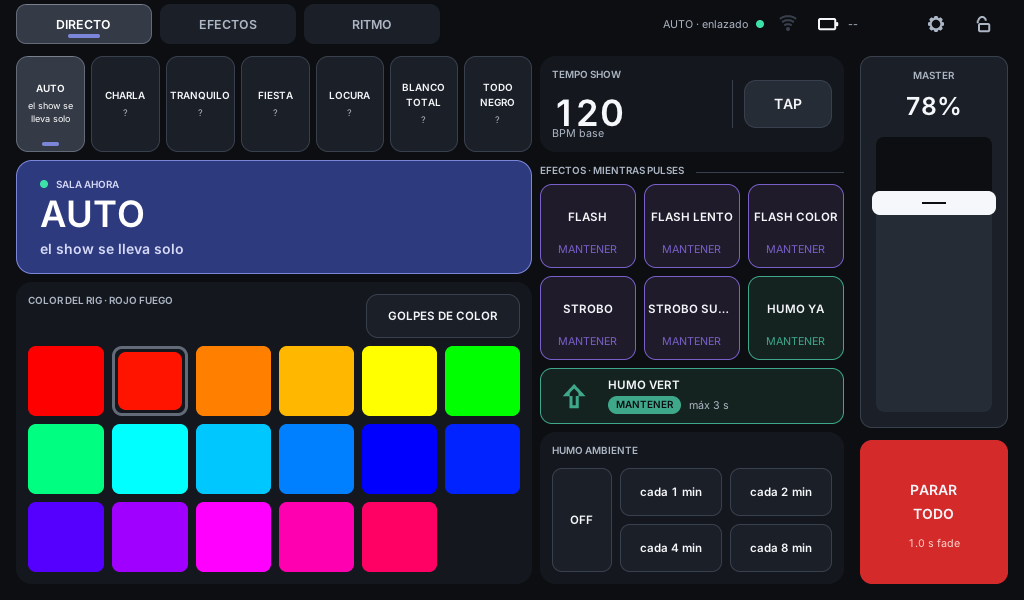
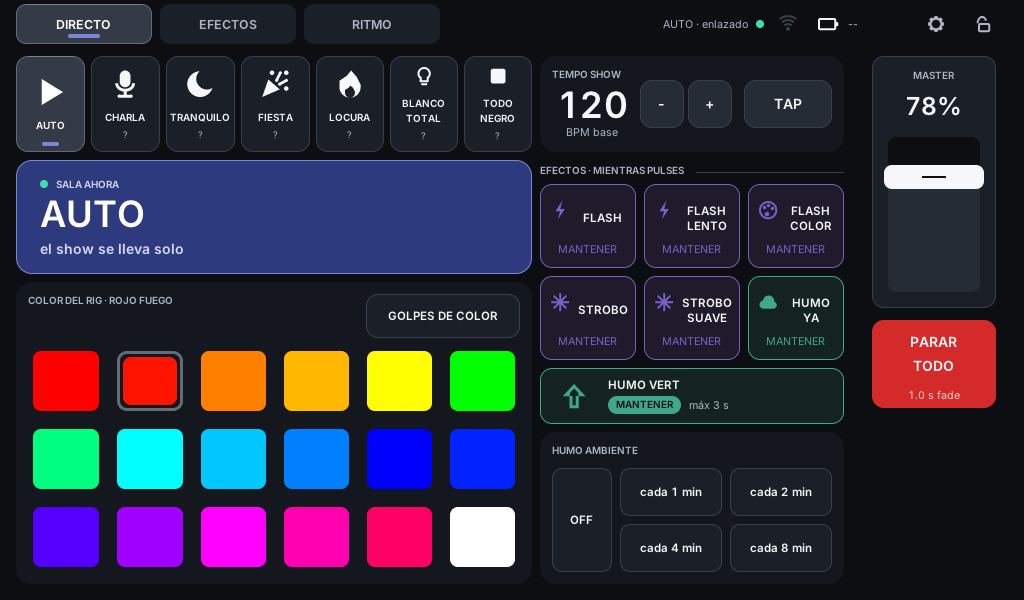
Refine SHOW tablet controls after live feedback
Restore white to the rig bank with a distinct touch target and bounded colour hit. Bring back Directo BPM steps and all state and effect icons while reducing the master, panic and colour controls. The final screen now keeps complete labels and centred tempo text.

Verified with 46 host tests under ASan and UBSan, the 19,764,864-probe geometry audit, Clang static analysis, the rendered screen and an ARM GCC build.

diff --git a/tests/dmx-desk/desk_geometry_test.c b/tests/dmx-desk/desk_geometry_test.c
@@ -1,4 +1,4 @@
-// SOURCES: ../tests/dmx-desk/audit/pager_selfcheck.c desk_inert_mask.c desk_region_mark.c desk_setup_inert_mask.c desk_speed_inert_mask.c desk_model.c desk_master_level_at.c desk_master_track.c desk_pager_caption.c desk_pager_bank_caption.c ../tests/dmx-desk/audit/icon.c ../tests/dmx-desk/audit/icon_ink.c icon_glyph.c ../tests/dmx-desk/audit/blend.c desk_caption.c desk_view.c desk_view_pager.c desk_pager_label.c desk_layout_resolve.c desk_show_layout.c showmap.c showmap_release_to_parse.c showmap_release_to_prune.c showmap_validate.c vcjson.c canvas.c canvas_blend.c font.c desk_fonts.c desk_input.c desk_pager_hit.c desk_build_holds.c desk_hold.c desk_speed.c desk_tap.c speed_factor.c desk_setup.c desk_brightness_track.c desk_brightness_level_at.c desk_setup_row_hit.c desk_setup_page_hit.c keyboard.c wifi_scan.c desk_conf.c ../tests/dmx-desk/audit/active.c ../tests/dmx-desk/audit/note.c ../tests/dmx-desk/audit/record.c ../tests/dmx-desk/audit/round.c ../tests/dmx-desk/audit/blend_round.c ../tests/dmx-desk/audit/fill.c ../tests/dmx-desk/audit/text.c ../tests/dmx-desk/audit/glyph_text.c ../tests/dmx-desk/audit/paint.c ../tests/dmx-desk/audit/speed_paint.c ../tests/dmx-desk/audit/setup_paint.c ../tests/dmx-desk/audit/keyboard_paint.c ../tests/dmx-desk/audit/add.c ../tests/dmx-desk/audit/inventory.c ../tests/dmx-desk/audit/setup_inventory.c ../tests/dmx-desk/audit/reach.c ../tests/dmx-desk/audit/geometry.c ../tests/dmx-desk/audit/scan.c ../tests/dmx-desk/audit/view.c ../tests/dmx-desk/audit/backing.c ../tests/dmx-desk/audit/ranges.c ../tests/dmx-desk/audit/selfcheck.c desk_tab_page.c desk_view_family.c desk_family_icon.c ../tests/dmx-desk/audit/paint_keyline.c ../tests/dmx-desk/audit/paint_text_centred.c ../tests/dmx-desk/audit/paint_tabs.c ../tests/dmx-desk/audit/paint_families.c desk_tab_title.c desk_show_slot.c desk_show_place.c desk_show_panel.c desk_show_section.c desk_show_accent_tile.c desk_show_live_page.c desk_show_is_rig.c desk_text_upper.c desk_colour_dim.c desk_panel_holds.c desk_panel_running.c desk_rig_name.c ../tests/dmx-desk/audit/paint_room.c ../tests/dmx-desk/audit/paint_text_at.c desk_speed_target_rect.c desk_pick_numbered.c desk_caption_number.c desk_trajectory_of.c ../tests/dmx-desk/audit/paint_number.c ../tests/dmx-desk/audit/paint_trajectory.c ../tests/dmx-desk/audit/paint_tile_base.c ../tests/dmx-desk/audit/icon_paint_large.c ../tests/dmx-desk/audit/icon_large_ink.c desk_show_holds.c desk_show_haze.c desk_show_rig.c desk_damage_running.c ../tests/dmx-desk/audit/paint_hold.c ../tests/dmx-desk/audit/paint_selected.c ../tests/dmx-desk/audit/paint_selected_mark.c ../tests/dmx-desk/audit/icon_paint_mid.c ../tests/dmx-desk/audit/icon_mid_ink.c ../tests/dmx-desk/audit/paint_room_picture.c ../tests/dmx-desk/audit/icon_paint_hero.c ../tests/dmx-desk/audit/icon_hero_ink.c
+// SOURCES: ../tests/dmx-desk/audit/pager_selfcheck.c desk_inert_mask.c desk_region_mark.c desk_setup_inert_mask.c desk_speed_inert_mask.c desk_model.c desk_master_level_at.c desk_master_track.c desk_pager_caption.c desk_pager_bank_caption.c ../tests/dmx-desk/audit/icon.c ../tests/dmx-desk/audit/icon_ink.c icon_glyph.c ../tests/dmx-desk/audit/blend.c desk_caption.c desk_view.c desk_view_pager.c desk_pager_label.c desk_layout_resolve.c desk_show_layout.c showmap.c showmap_release_to_parse.c showmap_release_to_prune.c showmap_validate.c vcjson.c canvas.c canvas_blend.c font.c desk_fonts.c desk_input.c desk_pager_hit.c desk_build_holds.c desk_hold.c desk_speed.c desk_tap.c speed_factor.c desk_setup.c desk_brightness_track.c desk_brightness_level_at.c desk_setup_row_hit.c desk_setup_page_hit.c keyboard.c wifi_scan.c desk_conf.c ../tests/dmx-desk/audit/active.c ../tests/dmx-desk/audit/note.c ../tests/dmx-desk/audit/record.c ../tests/dmx-desk/audit/round.c ../tests/dmx-desk/audit/blend_round.c ../tests/dmx-desk/audit/fill.c ../tests/dmx-desk/audit/text.c ../tests/dmx-desk/audit/glyph_text.c ../tests/dmx-desk/audit/paint.c ../tests/dmx-desk/audit/speed_paint.c ../tests/dmx-desk/audit/setup_paint.c ../tests/dmx-desk/audit/keyboard_paint.c ../tests/dmx-desk/audit/add.c ../tests/dmx-desk/audit/inventory.c ../tests/dmx-desk/audit/setup_inventory.c ../tests/dmx-desk/audit/reach.c ../tests/dmx-desk/audit/geometry.c ../tests/dmx-desk/audit/scan.c ../tests/dmx-desk/audit/view.c ../tests/dmx-desk/audit/backing.c ../tests/dmx-desk/audit/ranges.c ../tests/dmx-desk/audit/selfcheck.c desk_tab_page.c desk_view_family.c desk_family_icon.c ../tests/dmx-desk/audit/paint_keyline.c ../tests/dmx-desk/audit/paint_text_centred.c ../tests/dmx-desk/audit/paint_tabs.c ../tests/dmx-desk/audit/paint_families.c desk_tab_title.c desk_show_slot.c desk_show_place.c desk_show_panel.c desk_show_section.c desk_show_accent_tile.c desk_show_live_page.c desk_show_is_rig.c desk_text_upper.c desk_colour_dim.c desk_panel_holds.c desk_panel_running.c desk_rig_name.c ../tests/dmx-desk/audit/paint_room.c ../tests/dmx-desk/audit/paint_text_at.c desk_speed_target_rect.c desk_speed_tempo_step_rect.c desk_pick_numbered.c desk_caption_number.c desk_trajectory_of.c ../tests/dmx-desk/audit/paint_number.c ../tests/dmx-desk/audit/paint_trajectory.c ../tests/dmx-desk/audit/paint_tile_base.c ../tests/dmx-desk/audit/icon_paint_large.c ../tests/dmx-desk/audit/icon_large_ink.c desk_show_holds.c desk_show_haze.c desk_show_rig.c desk_damage_running.c ../tests/dmx-desk/audit/paint_hold.c ../tests/dmx-desk/audit/paint_selected.c ../tests/dmx-desk/audit/paint_selected_mark.c ../tests/dmx-desk/audit/icon_paint_mid.c ../tests/dmx-desk/audit/icon_mid_ink.c ../tests/dmx-desk/audit/paint_room_picture.c ../tests/dmx-desk/audit/icon_paint_hero.c ../tests/dmx-desk/audit/icon_hero_ink.c
 // OPTIMIZE: 2
 // A full-pixel audit of the real Vibra show. Unresolved findings fail the gate.
 #include <assert.h>

diff --git a/src/desk_paint.c b/src/desk_paint.c
@@ -295,10 +295,9 @@ static void paint_swatch(struct canvas *c, const struct desk_control *ctl,
                 DESK_MUTED);
 }
 
-// A state under SALA AHORA: its 36 px mark over its name, and under the name
-// the running state's detail, or why a tile is dead or unknown; an idle state
-// carries no second line, since the hero already says what runs. The mark
-// gives way when the words need the height.
+// A state under SALA AHORA: its mark over its name. The hero carries the
+// running detail; the tile uses its second line only for a disabled or unknown
+// state. Narrow two-line names get a smaller mark instead of losing it.
 static void paint_state(struct canvas *c, const struct desk_control *ctl,
                         const struct desk_placement *p, const struct desk_fonts *fonts,
                         enum desk_link link) {
@@ -312,18 +311,23 @@ static void paint_state(struct canvas *c, const struct desk_control *ctl,
     if (!ctl->enabled || link != DESK_LINK_READY)
         ink = DESK_MUTED;
     int unknown = link == DESK_LINK_READY && ctl->state == DESK_UNKNOWN;
-    const char *under = on ? ctl->detail : !ctl->enabled || unknown ? state_line(ctl, link) : "";
+    const char *under = !ctl->enabled || unknown ? state_line(ctl, link) : "";
     struct desk_caption_lines name, more;
     desk_caption_fit(fonts->section, r.w - 8, ctl->label, &name);
     int lines = under[0] ? desk_caption_fit(fonts->tiny, r.w - 8, under, &more) : 0;
     int name_pitch = text_h(fonts->section) + 2, more_pitch = text_h(fonts->tiny) + 1;
     int words = name.lines * name_pitch + (lines ? 4 + lines * more_pitch : 0);
     int mark = icon_glyph(ctl->icon);
-    int marked = mark >= 0 && words + ICON_MID_SIZE + MARK_GAP <= r.h - 24;
-    int y = r.y + (r.h - words - (marked ? ICON_MID_SIZE + MARK_GAP : 0)) / 2;
-    if (marked) {
-        icon_paint_mid(c, (enum icon_id)mark, r.x + (r.w - ICON_MID_SIZE) / 2, y, ink);
-        y += ICON_MID_SIZE + MARK_GAP;
+    int margin = r.w < 80 ? 12 : 24;
+    int mark_size = mark >= 0 && words + ICON_MID_SIZE + MARK_GAP <= r.h - margin ? ICON_MID_SIZE
+                  : mark >= 0 && words + ICON_SIZE + MARK_GAP <= r.h - margin ? ICON_SIZE : 0;
+    int y = r.y + (r.h - words - (mark_size ? mark_size + MARK_GAP : 0)) / 2;
+    if (mark_size) {
+        if (mark_size == ICON_MID_SIZE)
+            icon_paint_mid(c, (enum icon_id)mark, r.x + (r.w - mark_size) / 2, y, ink);
+        else
+            icon_paint(c, (enum icon_id)mark, r.x + (r.w - mark_size) / 2, y, ink);
+        y += mark_size + MARK_GAP;
     }
     for (int i = 0; i < name.lines; i++)
         centred(c, fonts->section, r.x + 4, y + i * name_pitch, r.w - 8, name_pitch, name.line[i], ink);
@@ -605,7 +609,8 @@ static void paint_headings(struct canvas *c, const struct desk_model *model,
             snprintf(text, sizeof text, "%s", named);
         }
         if (h->h <= 0) {
-            desk_paint_section(c, fonts, h->x, h->y, h->w, text);
+            int title_w = h->kind == DESK_PANEL_NAMES_RUNNING ? h->w - 166 : h->w;
+            desk_paint_section(c, fonts, h->x, h->y, title_w, text);
             continue;
         }
         // The hero paints its own panel and heading.

diff --git a/tests/dmx-desk/desk_render_test.c b/tests/dmx-desk/desk_render_test.c
@@ -1,4 +1,4 @@
-// SOURCES: desk_speed.c desk_speed_paint.c desk_tap.c speed_factor.c desk_model.c desk_master_level_at.c desk_paint.c desk_master_track.c desk_pager_caption.c desk_pager_bank_caption.c icon.c icon_glyph.c desk_caption.c desk_view.c desk_view_pager.c desk_pager_label.c desk_layout_resolve.c desk_show_layout.c showmap.c showmap_release_to_parse.c showmap_release_to_prune.c showmap_validate.c vcjson.c canvas.c canvas_blend.c font.c desk_fonts.c desk_paint_keyline.c desk_paint_text_centred.c desk_paint_tabs.c desk_paint_families.c desk_tab_page.c desk_tab_title.c desk_view_family.c desk_family_icon.c desk_show_slot.c desk_show_place.c desk_show_panel.c desk_show_section.c desk_show_accent_tile.c desk_show_live_page.c desk_show_is_rig.c desk_text_upper.c desk_colour_dim.c desk_panel_holds.c desk_panel_running.c desk_rig_name.c desk_paint_room.c desk_paint_text_at.c desk_speed_target_rect.c desk_pick_numbered.c desk_caption_number.c desk_trajectory_of.c desk_paint_number.c desk_paint_trajectory.c desk_paint_tile_base.c icon_paint_large.c desk_show_holds.c desk_show_haze.c desk_show_rig.c desk_damage_running.c desk_paint_hold.c desk_paint_selected.c desk_paint_selected_mark.c icon_paint_mid.c desk_paint_room_picture.c icon_paint_hero.c
+// SOURCES: desk_speed.c desk_speed_paint.c desk_speed_tempo_step_rect.c desk_tap.c speed_factor.c desk_model.c desk_master_level_at.c desk_paint.c desk_master_track.c desk_pager_caption.c desk_pager_bank_caption.c icon.c icon_glyph.c desk_caption.c desk_view.c desk_view_pager.c desk_pager_label.c desk_layout_resolve.c desk_show_layout.c showmap.c showmap_release_to_parse.c showmap_release_to_prune.c showmap_validate.c vcjson.c canvas.c canvas_blend.c font.c desk_fonts.c desk_paint_keyline.c desk_paint_text_centred.c desk_paint_tabs.c desk_paint_families.c desk_tab_page.c desk_tab_title.c desk_view_family.c desk_family_icon.c desk_show_slot.c desk_show_place.c desk_show_panel.c desk_show_section.c desk_show_accent_tile.c desk_show_live_page.c desk_show_is_rig.c desk_text_upper.c desk_colour_dim.c desk_panel_holds.c desk_panel_running.c desk_rig_name.c desk_paint_room.c desk_paint_text_at.c desk_speed_target_rect.c desk_pick_numbered.c desk_caption_number.c desk_trajectory_of.c desk_paint_number.c desk_paint_trajectory.c desk_paint_tile_base.c icon_paint_large.c desk_show_holds.c desk_show_haze.c desk_show_rig.c desk_damage_running.c desk_paint_hold.c desk_paint_selected.c desk_paint_selected_mark.c icon_paint_mid.c desk_paint_room_picture.c icon_paint_hero.c
 // The desk, built from the generated Vibra map against the real console
 // document, pressed once, and painted. Writes $TEST_OUT/desk.ppm so the screen can be
 // looked at on a laptop before it reaches the tablet, and one render per tab:

diff --git a/src/showmap_validate.c b/src/showmap_validate.c
@@ -275,5 +275,38 @@ int showmap_build(struct desk_model *model, const struct show_map *map,
         model->control[DESK_COLOR_MODE_INDEX(map)].state = DESK_OFF;
         enabled += off.enabled + tempo.enabled + color_mode.enabled;
     }
+    // A separate control gives the white swatch its own touch target while
+    // keeping BLANCO TOTAL in the state row. In one-shot mode it uses the
+    // validated, bounded white burst just like the other colour swatches.
+    struct desk_control white;
+    memset(&white, 0, sizeof white);
+    white.kind = DESK_CUE;
+    white.widget_id = -1;
+    white.function_id = -1;
+    white.shot_widget_id = -1;
+    white.page = -1;
+    int white_source = -1;
+    for (int i = 0; i < map->count; i++)
+        if (strcmp(map->control[i].key, "blanco-total") == 0)
+            white_source = i;
+    if (white_source >= 0) {
+        white = model->control[white_source];
+        snprintf(white.label, sizeof white.label, "BLANCO");
+        for (int i = 0; i < map->count; i++)
+            if (strcmp(map->control[i].key, "blanco") == 0 &&
+                model->control[i].kind == DESK_BURST && model->control[i].enabled)
+                white.shot_widget_id = model->control[i].widget_id;
+        if (white.shot_widget_id < 0 && model->control[DESK_COLOR_MODE_INDEX(map)].enabled) {
+            disable(&model->control[DESK_COLOR_MODE_INDEX(map)], "colour hits unavailable");
+            enabled--;
+        }
+    } else
+        disable(&white, "not in this show");
+    int white_index = desk_add(model, &white);
+    if (white_index >= 0) {
+        model->control[white_index].state = white_source >= 0 ?
+            model->control[white_source].state : DESK_UNKNOWN;
+        enabled += white.enabled;
+    }
     return enabled;
 }

diff --git a/tests/dmx-desk/desk_layout_test.c b/tests/dmx-desk/desk_layout_test.c
@@ -147,21 +147,21 @@ int main(void) {
                           : seg->x + seg->w == haze->x + haze->w - DESK_PANEL_PAD);
         assert(k < 2 ? seg->y == off->y : seg->y + seg->h == off->y + off->h);
     }
-    // COLOR DEL RIG: all seventeen colours, three rows of six, each at least the
+    // COLOR DEL RIG: eighteen manual colours, three rows of six, each at least the
     // 42x44 finger minimum, inside the panel.
     const struct desk_placement *mini = find(&l, control_named(&map, "Rig Rojo"), 0);
-    assert(mini && mini->tile == TILE_MINI && inside(mini, rig) && mini->x == rig->x + DESK_PANEL_PAD);
+    assert(mini && mini->tile == TILE_MINI && inside(mini, rig) && mini->x == rig->x + DESK_PANEL_PAD + 5);
     int swatches = 0, top_row = 0;
     for (int i = 0; i < l.placements; i++)
         if (l.placement[i].page == 0 && l.placement[i].tile == TILE_MINI) {
             const struct desk_placement *p = &l.placement[i];
             assert(inside(p, rig) && p->w >= 42 && p->h >= 44);
-            assert(p->y == mini->y || p->y == mini->y + mini->h + DESK_GAP ||
-                   p->y == mini->y + 2 * (mini->h + DESK_GAP));
+            assert(p->y == mini->y || p->y == mini->y + mini->h + 10 + DESK_GAP ||
+                   p->y == mini->y + 2 * (mini->h + 10 + DESK_GAP));
             top_row += p->y == mini->y;
             swatches++;
         }
-    assert(swatches == 17 && top_row == 6 && in_panel(&l, rig) == 18);
+    assert(swatches == 18 && top_row == 6 && in_panel(&l, rig) == 19);
     const struct desk_placement *shot_mode = find(&l, map.count + 4, 0);
     assert(shot_mode && shot_mode->tile == TILE_COMPACT && inside(shot_mode, rig));
     assert(shot_mode->h >= 44 && shot_mode->y + shot_mode->h <= mini->y);

diff --git a/src/desk_speed_paint.c b/src/desk_speed_paint.c
@@ -104,7 +104,7 @@ void desk_speed_tempo_tap_rect(int x, int y, int w, int h, int *tx, int *ty, int
     *tw = 88;
     *th = h - 48;
     *tx = x + w - 12 - *tw;
-    *ty = y + 24;
+    *ty = y + (h - *th) / 2;
 }
 
 void desk_speed_paint_tempo(struct canvas *c, const struct desk_speed *s, int i,
@@ -120,12 +120,16 @@ void desk_speed_paint_tempo(struct canvas *c, const struct desk_speed *s, int i,
         snprintf(big, sizeof big, "--");
     int tx, ty, tw, th;
     desk_speed_tempo_tap_rect(x, y, w, h, &tx, &ty, &tw, &th);
-    // The number under the panel's heading, then one line: base BPM, or
-    // the note that matters more.
-    int nw = tx - 24 - (x + 12);
-    text_at(c, fonts->big, x + 12, y + 34, nw, big, live ? DESK_INK : DESK_MUTED);
-    text_at(c, fonts->small, x + 12, y + h - 12 - text_h(fonts->small), nw, under_number(d), DESK_MUTED);
-    canvas_fill_rect(c, tx - 12, ty, 1, th, DESK_LINE);
+    int dx, dy, dw, dh;
+    desk_speed_tempo_step_rect(x, y, w, h, SPEED_T_BPM_DOWN, &dx, &dy, &dw, &dh);
+    int nw = dx - 8 - (x + 12);
+    centred(c, fonts->big, x + 12, y + 27, nw, 42, big, live ? DESK_INK : DESK_MUTED);
+    centred(c, fonts->small, x + 12, y + 68, nw, 16, under_number(d), DESK_MUTED);
+    target(c, fonts->tile, dx, dy, dw, dh, "-", desk_speed_target_enabled(s, i, SPEED_T_BPM_DOWN),
+           0, DESK_RAISED, DESK_PANEL);
+    desk_speed_tempo_step_rect(x, y, w, h, SPEED_T_BPM_UP, &dx, &dy, &dw, &dh);
+    target(c, fonts->tile, dx, dy, dw, dh, "+", desk_speed_target_enabled(s, i, SPEED_T_BPM_UP),
+           0, DESK_RAISED, DESK_PANEL);
     int enabled = desk_speed_target_enabled(s, i, SPEED_T_TAP);
     target(c, fonts->tile, tx, ty, tw, th, "TAP", enabled, pressed, DESK_RAISED, DESK_PANEL);
 }

diff --git a/src/desk_paint_hold.c b/src/desk_paint_hold.c
@@ -43,8 +43,16 @@ void desk_paint_hold(struct canvas *c, const struct desk_control *ctl, const str
     if (p->h < 100 && p->w < 2 * p->h) {
         const char *foot = unresolved ? "sin confirmar" : capped ? "suelta" :
                            live ? PILL : "solo en el Mac";
-        desk_paint_text_centred(c, fonts->tile_s, p->x + 4, p->y + 12,
-                                p->w - 8, p->h - 42, ctl->label, ink);
+        int glyph = icon_glyph(ctl->icon);
+        enum icon_id mark = glyph >= 0 ? (enum icon_id)glyph : ICON_BOLT;
+        icon_paint(c, mark, p->x + 8, p->y + 14, armed ? tone : DESK_LINE);
+        struct desk_caption_lines name;
+        desk_caption_fit(fonts->tile_s, p->w - 42, ctl->label, &name);
+        int pitch = height_of(fonts->tile_s);
+        int top = p->y + 14 + (40 - name.lines * pitch) / 2;
+        for (int i = 0; i < name.lines && i < 2; i++)
+            desk_paint_text_centred(c, fonts->tile_s, p->x + 36, top + i * pitch,
+                                    p->w - 42, pitch, name.line[i], ink);
         desk_paint_text_centred(c, fonts->small, p->x + 4, p->y + p->h - 28,
                                 p->w - 8, 18, foot, unresolved ? DESK_WARN : tone);
         if (ctl->hold_progress >= 0) {
@@ -97,7 +105,7 @@ void desk_paint_hold(struct canvas *c, const struct desk_control *ctl, const str
         else
             icon_paint(c, mark, p->x + (p->w - size) / 2, top, mark_ink);
         top += size + GAP;
-        for (int i = 0; i < name.lines; i++)
+        for (int i = 0; i < name.lines && i < 2; i++)
             desk_paint_text_centred(c, face, p->x + 8, top + i * pitch, p->w - 16, pitch, name.line[i], ink);
         tx = p->x + 4;
         tw = p->w - 8;

diff --git a/src/dmxdesk.c b/src/dmxdesk.c
@@ -898,9 +898,21 @@ int main(int argc, char **argv) {
                         desk_speed_tempo_tap_rect(tp->x, tp->y, tp->w, tp->h, &tx, &ty, &tw, &th);
                         if (x >= tx && x < tx + tw && y >= ty && y < ty + th) {
                             int64_t at = events[i].t > 0 ? (int64_t)(events[i].t * 1000.0) : now;
-                            send_speed(session, desk_speed_tap(&speed, 0, now_ms(), at), now);
+                            send_speed(session, desk_speed_direct(&speed, 0, SPEED_T_TAP, now_ms(), at), now);
                             hold_owner[slot] = ci;      // the release is consumed, the target reads pressed
                             desk_set_hold_progress(&model, ci, -1, 1);
+                        } else {
+                            for (int step = SPEED_T_BPM_DOWN; step <= SPEED_T_BPM_UP; step++) {
+                                desk_speed_tempo_step_rect(tp->x, tp->y, tp->w, tp->h,
+                                                           (enum speed_target)step, &tx, &ty, &tw, &th);
+                                if (x < tx || x >= tx + tw || y < ty || y >= ty + th)
+                                    continue;
+                                send_speed(session, desk_speed_direct(&speed, 0,
+                                                                       (enum speed_target)step,
+                                                                       now_ms(), now), now);
+                                hold_owner[slot] = ci;
+                                break;
+                            }
                         }
                         continue;
                     }

diff --git a/tests/dmx-desk/audit/reach.c b/tests/dmx-desk/audit/reach.c
@@ -42,9 +42,20 @@ int audit_reach(struct audit_context *a,int x,int y,int *value) {
             if(p)desk_speed_tempo_tap_rect(p->x,p->y,p->w,p->h,&tap.x,&tap.y,&tap.w,&tap.h);
             if(m->control[ci].enabled && desk_rect_contains(tap,x,y) && desk_speed_target_enabled(&a->speed,0,SPEED_T_TAP)) {
                 struct desk_speed s=a->speed;
-                desk_speed_tap(&s,0,10000,10000);
+                desk_speed_direct(&s,0,SPEED_T_TAP,10000,10000);
                 if(s.tap[0].last_ms==10000)kind=A_CONTROL,index=ci;
             }
+            if(p && m->control[ci].enabled)
+                for(int step=SPEED_T_BPM_DOWN;step<=SPEED_T_BPM_UP;step++) {
+                    struct desk_rect r={0};
+                    desk_speed_tempo_step_rect(p->x,p->y,p->w,p->h,(enum speed_target)step,
+                                               &r.x,&r.y,&r.w,&r.h);
+                    if(!desk_rect_contains(r,x,y) ||
+                       !desk_speed_target_enabled(&a->speed,0,(enum speed_target)step))continue;
+                    struct desk_speed s=a->speed;
+                    if(desk_speed_direct(&s,0,(enum speed_target)step,10000,10000).kind!=SPEED_ACT_NONE)
+                        kind=A_SPEED,index=step,sub=0;
+                }
         } else {
             int at;
             enum desk_target t=desk_input_target(m,x,y,&at);

diff --git a/src/desk_show_rig.c b/src/desk_show_rig.c
@@ -7,6 +7,8 @@
 #include "desk_show_place.h"
 #include "desk_show_slot.h"
 
+#include <string.h>
+
 #define RIG_COLUMNS 6
 
 int desk_show_rig(const struct show_map *map, int page, int x, int w, struct desk_layout *out) {
@@ -28,7 +30,18 @@ int desk_show_rig(const struct show_map *map, int page, int x, int w, struct des
             continue;
         int row = laid / per_row, sw;
         int sx = desk_show_slot(x0, inner_w, per_row, DESK_GAP, laid++ % per_row, &sw);
-        if (desk_show_place(out, i, page, sx, top + row * (h + DESK_GAP), sw, h, TILE_MINI) != 0)
+        if (desk_show_place(out, i, page, sx + 5, top + row * (h + DESK_GAP) + 5,
+                            sw - 10, h - 10, TILE_MINI) != 0)
+            return -1;
+    }
+    // White is the explicit manual look, never a step in an automatic wheel.
+    for (int i = 0; i < map->count && laid < DESK_RIG_SLOTS; i++) {
+        if (strcmp(map->control[i].key, "blanco-total") != 0 || map->control[i].swatches != 1)
+            continue;
+        int row = laid / per_row, sw;
+        int sx = desk_show_slot(x0, inner_w, per_row, DESK_GAP, laid++ % per_row, &sw);
+        if (desk_show_place(out, map->count + 5, page, sx + 5, top + row * (h + DESK_GAP) + 5,
+                            sw - 10, h - 10, TILE_MINI) != 0)
             return -1;
     }
     return 0;

diff --git a/tests/dmx-desk/desk_damage_test.c b/tests/dmx-desk/desk_damage_test.c
@@ -142,6 +142,23 @@ int main(void) {
     assert(action.kind == DESK_ACT_TOGGLE && action.widget_id == hit_widget);
     assert(desk_take_damage(&m, &x, &y, &w, &h) == 1);
 
+    int white_hit = -1;
+    for (int i = 0; i < map.count; i++)
+        if (strcmp(map.control[i].key, "blanco") == 0)
+            white_hit = map.control[i].widget_id;
+    int white_ix = DESK_WHITE_INDEX(&map);
+    const struct desk_placement *white = desk_placement_of(&m, white_ix);
+    assert(white && white->tile == TILE_MINI && m.control[white_ix].shot_widget_id == white_hit);
+    desk_touch_down(&m, 0, white->x + 2, white->y + 2, NULL);
+    action = desk_touch_up(&m, 0, white->x + 2, white->y + 2);
+    assert(action.kind == DESK_ACT_TOGGLE && action.widget_id == white_hit);
+    desk_touch_down(&m, 0, mode->x + 2, mode->y + 2, NULL);
+    desk_touch_up(&m, 0, mode->x + 2, mode->y + 2);
+    desk_touch_down(&m, 0, white->x + 2, white->y + 2, NULL);
+    action = desk_touch_up(&m, 0, white->x + 2, white->y + 2);
+    assert(action.kind == DESK_ACT_TOGGLE && action.widget_id == m.control[white_ix].widget_id);
+    desk_take_damage(&m, &x, &y, &w, &h);
+
     // A push for a control on another page damages nothing on this view.
     int gobo_fn = -1;
     for (int i = 0; i < m.count; i++)

diff --git a/src/desk_inert_mask.c b/src/desk_inert_mask.c
@@ -33,9 +33,17 @@ void desk_inert_mask(const struct desk_model *m, const struct desk_setup *s, con
             (s->open && p->x < SETUP_SHEET_W) || !m->control[p->control].enabled)
             continue;
         struct desk_rect r = {p->x, p->y, p->w, p->h};
-        if (m->control[p->control].kind == DESK_TEMPO)
+        if (m->control[p->control].kind == DESK_TEMPO) {
             desk_speed_tempo_tap_rect(p->x, p->y, p->w, p->h, &r.x, &r.y, &r.w, &r.h);
-        desk_region_mark(mask, r, 0);
+            desk_region_mark(mask, r, 0);
+            for (int step = SPEED_T_BPM_DOWN; step <= SPEED_T_BPM_UP; step++) {
+                desk_speed_tempo_step_rect(p->x, p->y, p->w, p->h,
+                                           (enum speed_target)step, &r.x, &r.y, &r.w, &r.h);
+                if (desk_speed_target_enabled(speed, 0, (enum speed_target)step))
+                    desk_region_mark(mask, r, 0);
+            }
+        } else
+            desk_region_mark(mask, r, 0);
     }
     desk_region_mark(mask, desk_view_gear(), 0);
     desk_region_mark(mask, desk_view_lock_target(), 0);
